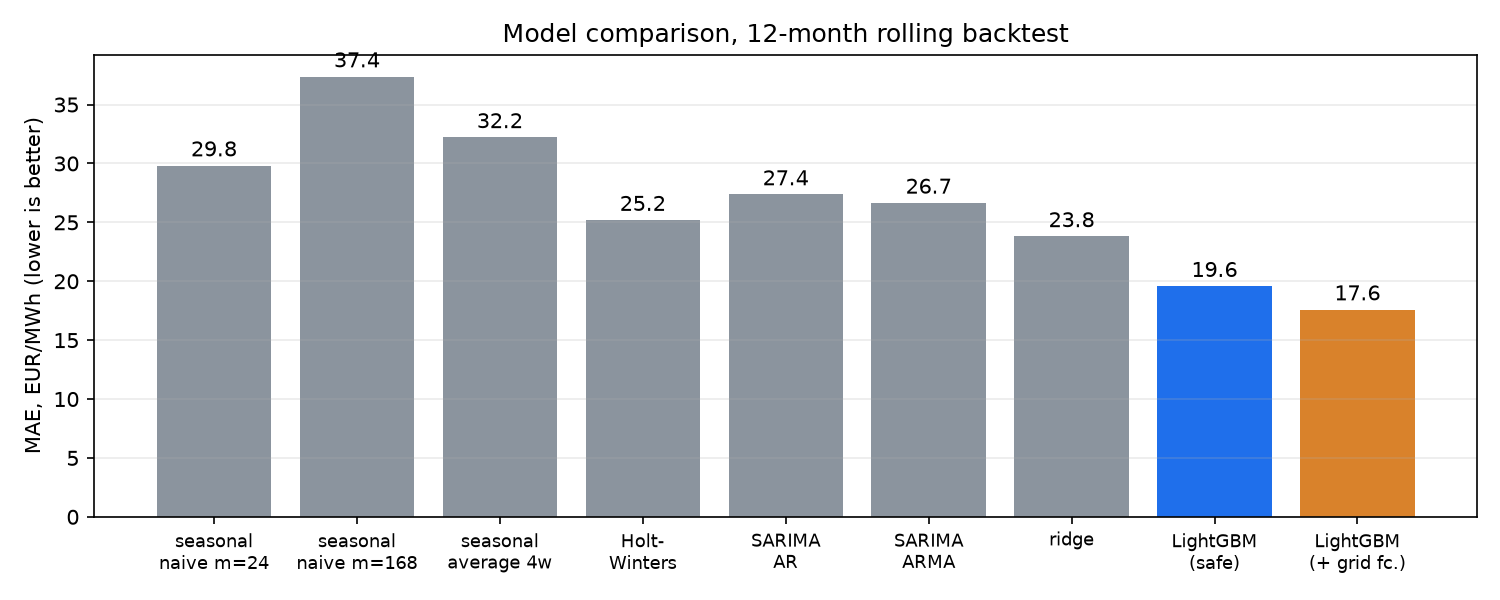
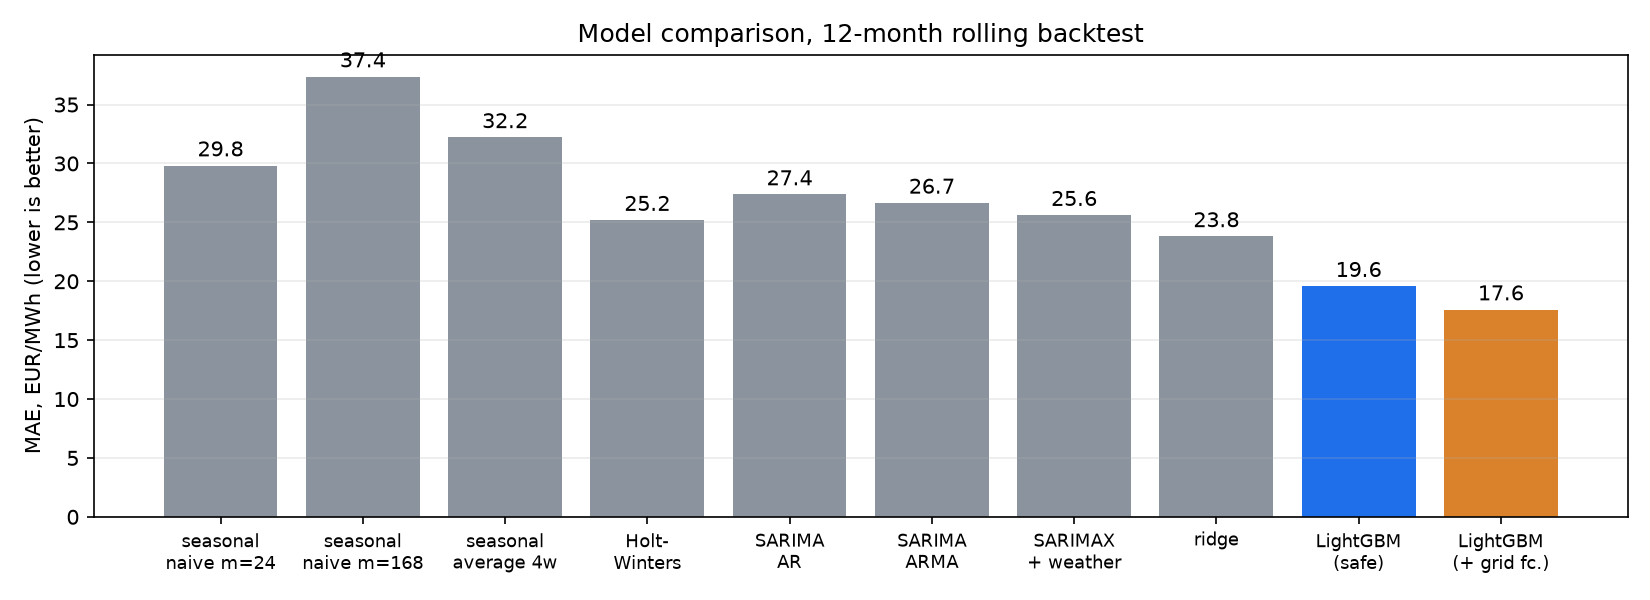
feat: SARIMAX baseline with the weather forecasts as exogenous regressors

diff --git a/src/epf/models/classical.py b/src/epf/models/classical.py
@@ -8,6 +8,8 @@ last 28 days. That is the same information the machine learning model has, so th
   Holt-Winters           exponential smoothing with additive seasonality, ETS(A,N,A), m = 24
   SARIMA(1,0,0)(1,1,0)24 an autoregressive model: AR(1), plus a seasonal AR(1) on the 24-hour seasonal difference
   SARIMA(1,0,1)(0,1,1)24 ARMA(1,1) plus a seasonal MA(1) on the 24-hour seasonal difference ("airline-type" model)
+  SARIMAX                the same SARIMA(1,0,1)(0,1,1)24 plus exogenous regressors: the four weather forecasts of the day
+                         (temperature, solar radiation, wind at the North Sea and inland). Same information as ridge and LightGBM.
 """
 
 import warnings
@@ -24,7 +26,8 @@ from epf.features import local_hour_lag
 HISTORY_HOURS = 28 * 24
 SARIMA_AR = ((1, 0, 0), (1, 1, 0, 24))
 SARIMA_ARMA = ((1, 0, 1), (0, 1, 1, 24))
-NAMES = ["sma_4w", "ets", "sarima_ar", "sarima_arma"]
+EXOG = ["temp", "rad", "wind_ns", "wind_inland"]
+NAMES = ["sma_4w", "ets", "sarima_ar", "sarima_arma", "sarimax"]
 
 
 def seasonal_average(price: pd.Series, weeks: int = 4) -> pd.Series:
@@ -34,8 +37,9 @@ def seasonal_average(price: pd.Series, weeks: int = 4) -> pd.Series:
     return pd.Series(np.nanmean(lags, axis=1), index=price.index)
 
 
-def forecast_one_day(history: np.ndarray, horizon: int) -> dict[str, np.ndarray]:
-    """ETS and the two SARIMA models for the next `horizon` hours. A model that fails returns NaN."""
+def forecast_one_day(history: np.ndarray, horizon: int, exog_history: np.ndarray | None = None, exog_future: np.ndarray | None = None) -> dict[str, np.ndarray]:
+    """ETS, the two SARIMA models and (with exogenous inputs) SARIMAX for the next `horizon` hours.
+    A model that fails returns NaN."""
     out = {}
     with warnings.catch_warnings():
         warnings.simplefilter("ignore")
@@ -52,21 +56,37 @@ def forecast_one_day(history: np.ndarray, horizon: int) -> dict[str, np.ndarray]
                 out[name] = fit.forecast(horizon)
             except Exception:
                 out[name] = np.full(horizon, np.nan)
+        if exog_history is not None and exog_future is not None:
+            try:
+                mean, std = exog_history.mean(axis=0), exog_history.std(axis=0) + 1e-9  # standardised, so the optimiser converges
+                fit = SARIMAX(history, exog=(exog_history - mean) / std, order=SARIMA_ARMA[0], seasonal_order=SARIMA_ARMA[1],
+                              enforce_stationarity=False, enforce_invertibility=False).fit(disp=False, maxiter=60)
+                out["sarimax"] = fit.forecast(horizon, exog=(exog_future - mean) / std)
+            except Exception:
+                out["sarimax"] = np.full(horizon, np.nan)
     return out
 
 
-def classical_backtest(price: pd.Series, test_index: pd.DatetimeIndex, n_jobs: int = -1) -> pd.DataFrame:
-    """Forecasts of the classical models for every hour in `test_index`, one fit per local day."""
+def classical_backtest(price: pd.Series, test_index: pd.DatetimeIndex, n_jobs: int = -1, exog: pd.DataFrame | None = None) -> pd.DataFrame:
+    """Forecasts of the classical models for every hour in `test_index`, one fit per local day.
+    exog: the weather forecasts (columns EXOG), needed for SARIMAX."""
     price = price.dropna()
     local_days = pd.Series(test_index.tz_convert(config.TIMEZONE).date, index=test_index)
     jobs = []
     for _, hours in local_days.groupby(local_days):
         start = hours.index.min()
-        history = price[price.index < start].iloc[-HISTORY_HOURS:].to_numpy()
-        jobs.append((hours.index, history, len(hours)))
-    results = Parallel(n_jobs=n_jobs)(delayed(forecast_one_day)(history, horizon) for _, history, horizon in jobs)
-    frame = pd.DataFrame(index=test_index, columns=["ets", "sarima_ar", "sarima_arma"], dtype=float)
-    for (idx, _, _), res in zip(jobs, results):
+        past = price[price.index < start].iloc[-HISTORY_HOURS:]
+        exog_history = exog_future = None
+        if exog is not None:
+            x = exog[EXOG]
+            exog_history = x.reindex(past.index).to_numpy(dtype=float)
+            exog_future = x.reindex(hours.index).to_numpy(dtype=float)
+            if np.isnan(exog_history).any() or np.isnan(exog_future).any():
+                exog_history = exog_future = None  # an incomplete weather forecast: SARIMAX falls back below
+        jobs.append((hours.index, past.to_numpy(), len(hours), exog_history, exog_future))
+    results = Parallel(n_jobs=n_jobs)(delayed(forecast_one_day)(h, n, eh, ef) for _, h, n, eh, ef in jobs)
+    frame = pd.DataFrame(index=test_index, columns=["ets", "sarima_ar", "sarima_arma", "sarimax"], dtype=float)
+    for (idx, *_), res in zip(jobs, results):
         for name, values in res.items():
             frame.loc[idx, name] = values
     frame["sma_4w"] = seasonal_average(price).reindex(test_index).to_numpy()

diff --git a/tests/test_classical.py b/tests/test_classical.py
@@ -51,3 +51,18 @@ def test_the_backtest_forecasts_only_from_prices_before_each_day():
     first_day = test_index[local_dates == local_dates[0]]  # the first LOCAL day is forecast from history only, so it cannot change
     pd.testing.assert_frame_equal(a.loc[first_day, ["ets", "sarima_ar", "sarima_arma"]], b.loc[first_day, ["ets", "sarima_ar", "sarima_arma"]])
     assert list(a.columns) == classical.NAMES
+
+
+def test_sarimax_uses_the_exogenous_weather_and_finds_a_weather_driven_signal():
+    rng = np.random.default_rng(1)
+    index = pd.date_range("2025-05-01", periods=45 * 24, freq="h", tz="UTC")
+    weather = pd.DataFrame({name: rng.normal(0, 1, len(index)) for name in classical.EXOG}, index=index)
+    price = pd.Series(50 + 20 * weather["wind_ns"].to_numpy() + rng.normal(0, 0.5, len(index)), index=index)  # price follows the wind
+    test_index = index[-24:]
+    history = price.iloc[: -24].to_numpy()[-classical.HISTORY_HOURS:]
+    x = weather[classical.EXOG]
+
+    out = classical.forecast_one_day(history, 24, x.reindex(price.index[: -24][-classical.HISTORY_HOURS:]).to_numpy(), x.reindex(test_index).to_numpy())
+
+    assert np.abs(out["sarimax"] - price.iloc[-24:].to_numpy()).mean() < 8
+    assert np.abs(out["sarima_arma"] - price.iloc[-24:].to_numpy()).mean() > np.abs(out["sarimax"] - price.iloc[-24:].to_numpy()).mean()  # it needs the wind

diff --git a/src/epf/research.py b/src/epf/research.py
@@ -61,6 +61,7 @@ def backtest_scores(bt: pd.DataFrame) -> dict:
         "Holt-Winters ETS(A,N,A), m=24": bt["ets"],
         "SARIMA(1,0,0)(1,1,0)24 (AR)": bt["sarima_ar"],
         "SARIMA(1,0,1)(0,1,1)24 (ARMA + seasonal MA)": bt["sarima_arma"],
+        "SARIMAX(1,0,1)(0,1,1)24 + weather forecasts": bt["sarimax"],
     }
     models = {
         **statistical,
@@ -130,7 +131,7 @@ def run_all(months: int = 12):
                 "lgbm_full": lambda: QuantileForecaster(quantiles=(0.5,), features=FULL_FEATURES),
             },
         )
-        bt = bt.join(classical.classical_backtest(frame["price"], bt.index))
+        bt = bt.join(classical.classical_backtest(frame["price"], bt.index, exog=frame))
         config.PROCESSED_DIR.mkdir(parents=True, exist_ok=True)
         bt.to_parquet(config.PROCESSED_DIR / "backtest.parquet")
         scores = backtest_scores(bt)

diff --git a/src/epf/report.py b/src/epf/report.py
@@ -64,13 +64,14 @@ def models_figure(local: pd.DataFrame) -> None:
         "Holt-\nWinters": local["ets"],
         "SARIMA\nAR": local["sarima_ar"],
         "SARIMA\nARMA": local["sarima_arma"],
+        "SARIMAX\n+ weather": local["sarimax"],
         "ridge": local["ridge"],
         "LightGBM\n(safe)": local["q50"],
         "LightGBM\n(+ grid fc.)": local["lgbm_full"],
     }
     values = [metrics.mae(local["price"], f) for f in models.values()]
-    colors = [GREY] * 6 + [GREY, BLUE, ORANGE]
-    fig, ax = plt.subplots(figsize=(10, 4))
+    colors = [GREY] * 7 + [GREY, BLUE, ORANGE]
+    fig, ax = plt.subplots(figsize=(11, 4))
     bars = ax.bar(list(models), values, color=colors)
     ax.bar_label(bars, fmt="%.1f", padding=2)
     ax.set_ylabel("MAE, EUR/MWh (lower is better)")

diff --git a/README.md b/README.md
@@ -82,11 +82,13 @@ and only see prices before that day, so they know exactly as much as the machine
 | Holt-Winters exponential smoothing, ETS(A,N,A), m = 24 | 25.2 | 39.1 | 39.1 |
 | SARIMA(1,0,0)(1,1,0)24 (AR(1) + seasonal AR(1)) | 27.4 | 43.8 | 41.8 |
 | SARIMA(1,0,1)(0,1,1)24 (ARMA(1,1) + seasonal MA(1)) | 26.7 | 41.6 | 40.3 |
+| SARIMAX(1,0,1)(0,1,1)24 + the 4 weather forecasts as exogenous regressors | 25.6 | 40.1 | 39.3 |
 | ridge regression (AR lags, weather forecasts, calendar) | 23.8 | 34.5 | 37.4 |
 | **LightGBM, safe inputs (released model)** | **19.6** | **31.3** | **32.3** |
 | LightGBM + grid operators' forecasts (reference only) | 17.6 | 28.8 | 31.7 |
 
-The best classical baseline is Holt-Winters; the released model is **22.3 % better than it** (19.6 vs. 25.2). Against the
+The best classical baseline is Holt-Winters; the released model is **22.3 % better than it** (19.6 vs. 25.2). Giving the SARIMA model the
+weather forecasts as exogenous regressors (SARIMAX) helps (26.7 to 25.6), but it stays slightly behind Holt-Winters. Against the
 weakest baseline, the seasonal naive forecast with m = 168, the gain is 47.6 %. The first number is the honest one to quote,
 because a model should be compared with the best simple alternative, not the worst.
 
@@ -122,8 +124,8 @@ the wind forecast at the North Sea, the weekday, the price of the same hour last
   after a clock change, and for the last hour it looked into the day being forecast. Lags are now computed on the local clock
   and covered by tests.
 - No fuel or CO2 prices are used (no free, reliable daily source), and the model sees one market (DE-LU).
-- Not tried: a zero-shot time-series foundation model as an extra baseline, and SARIMA with exogenous regressors (SARIMAX). The ridge
-  regression is the closest thing to an ARX model here: autoregressive lags plus exogenous inputs.
+- Not tried: a zero-shot time-series foundation model as an extra baseline, and SARIMA orders chosen by a search (AIC). The orders above are
+  fixed, standard choices. The ridge regression is an ARX-style model: autoregressive lags plus exogenous inputs.
 
 ## Run it
 
